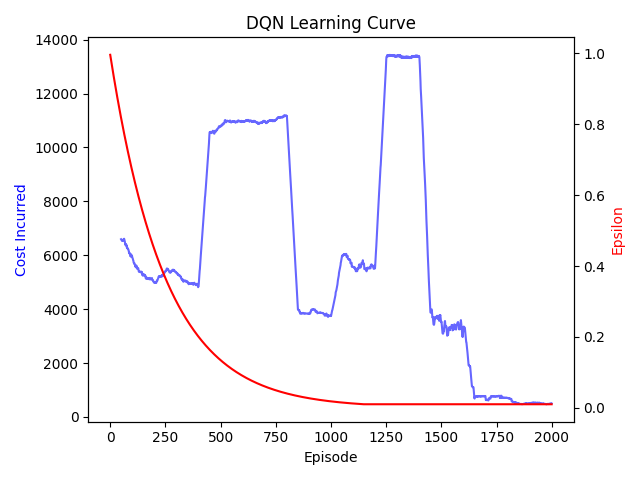
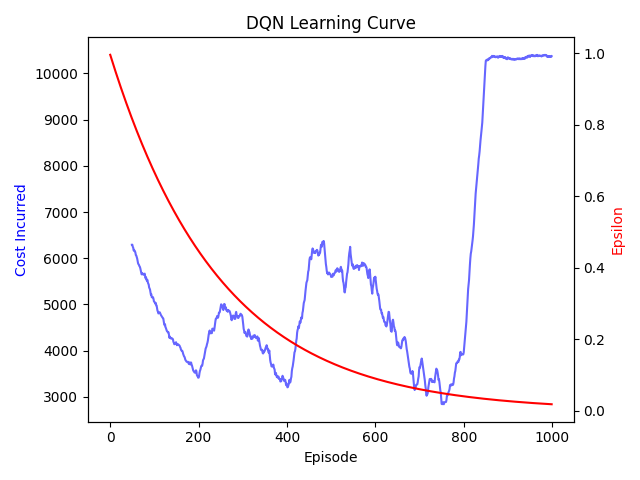
Try different policy

diff --git a/DQN_Simulator.py b/DQN_Simulator.py
@@ -46,7 +46,7 @@ myDistributor = Distributor(distributorWholesalerTopQueue, factoryDistributorTop
 
 myFactory = Factory(factoryDistributorTopQueue, None, None, factoryDistributorBottomQueue, QUEUE_DELAY_WEEKS)
 
-num_episodes = 2000
+num_episodes = 1000
 num_actions = 30
 initial_epsilon = 1.0
 final_epsilon = 0.01

diff --git a/theBeerGame/Settings.py b/theBeerGame/Settings.py
@@ -33,8 +33,8 @@ INITIAL_CURRENT_PIPELINE = 0
 CUSTOMER_INITIAL_ORDERS = 4
 CUSTOMER_SUBSEQUENT_ORDERS = 8 #used in fixed policy
 
-CUSTOMER_MINIMUM_ORDERS = 2
-CUSTOMER_MAXIMUM_ORDERS = 8
+CUSTOMER_MINIMUM_ORDERS = 4
+CUSTOMER_MAXIMUM_ORDERS = 5
 
 TARGET_STOCK = 12
 
